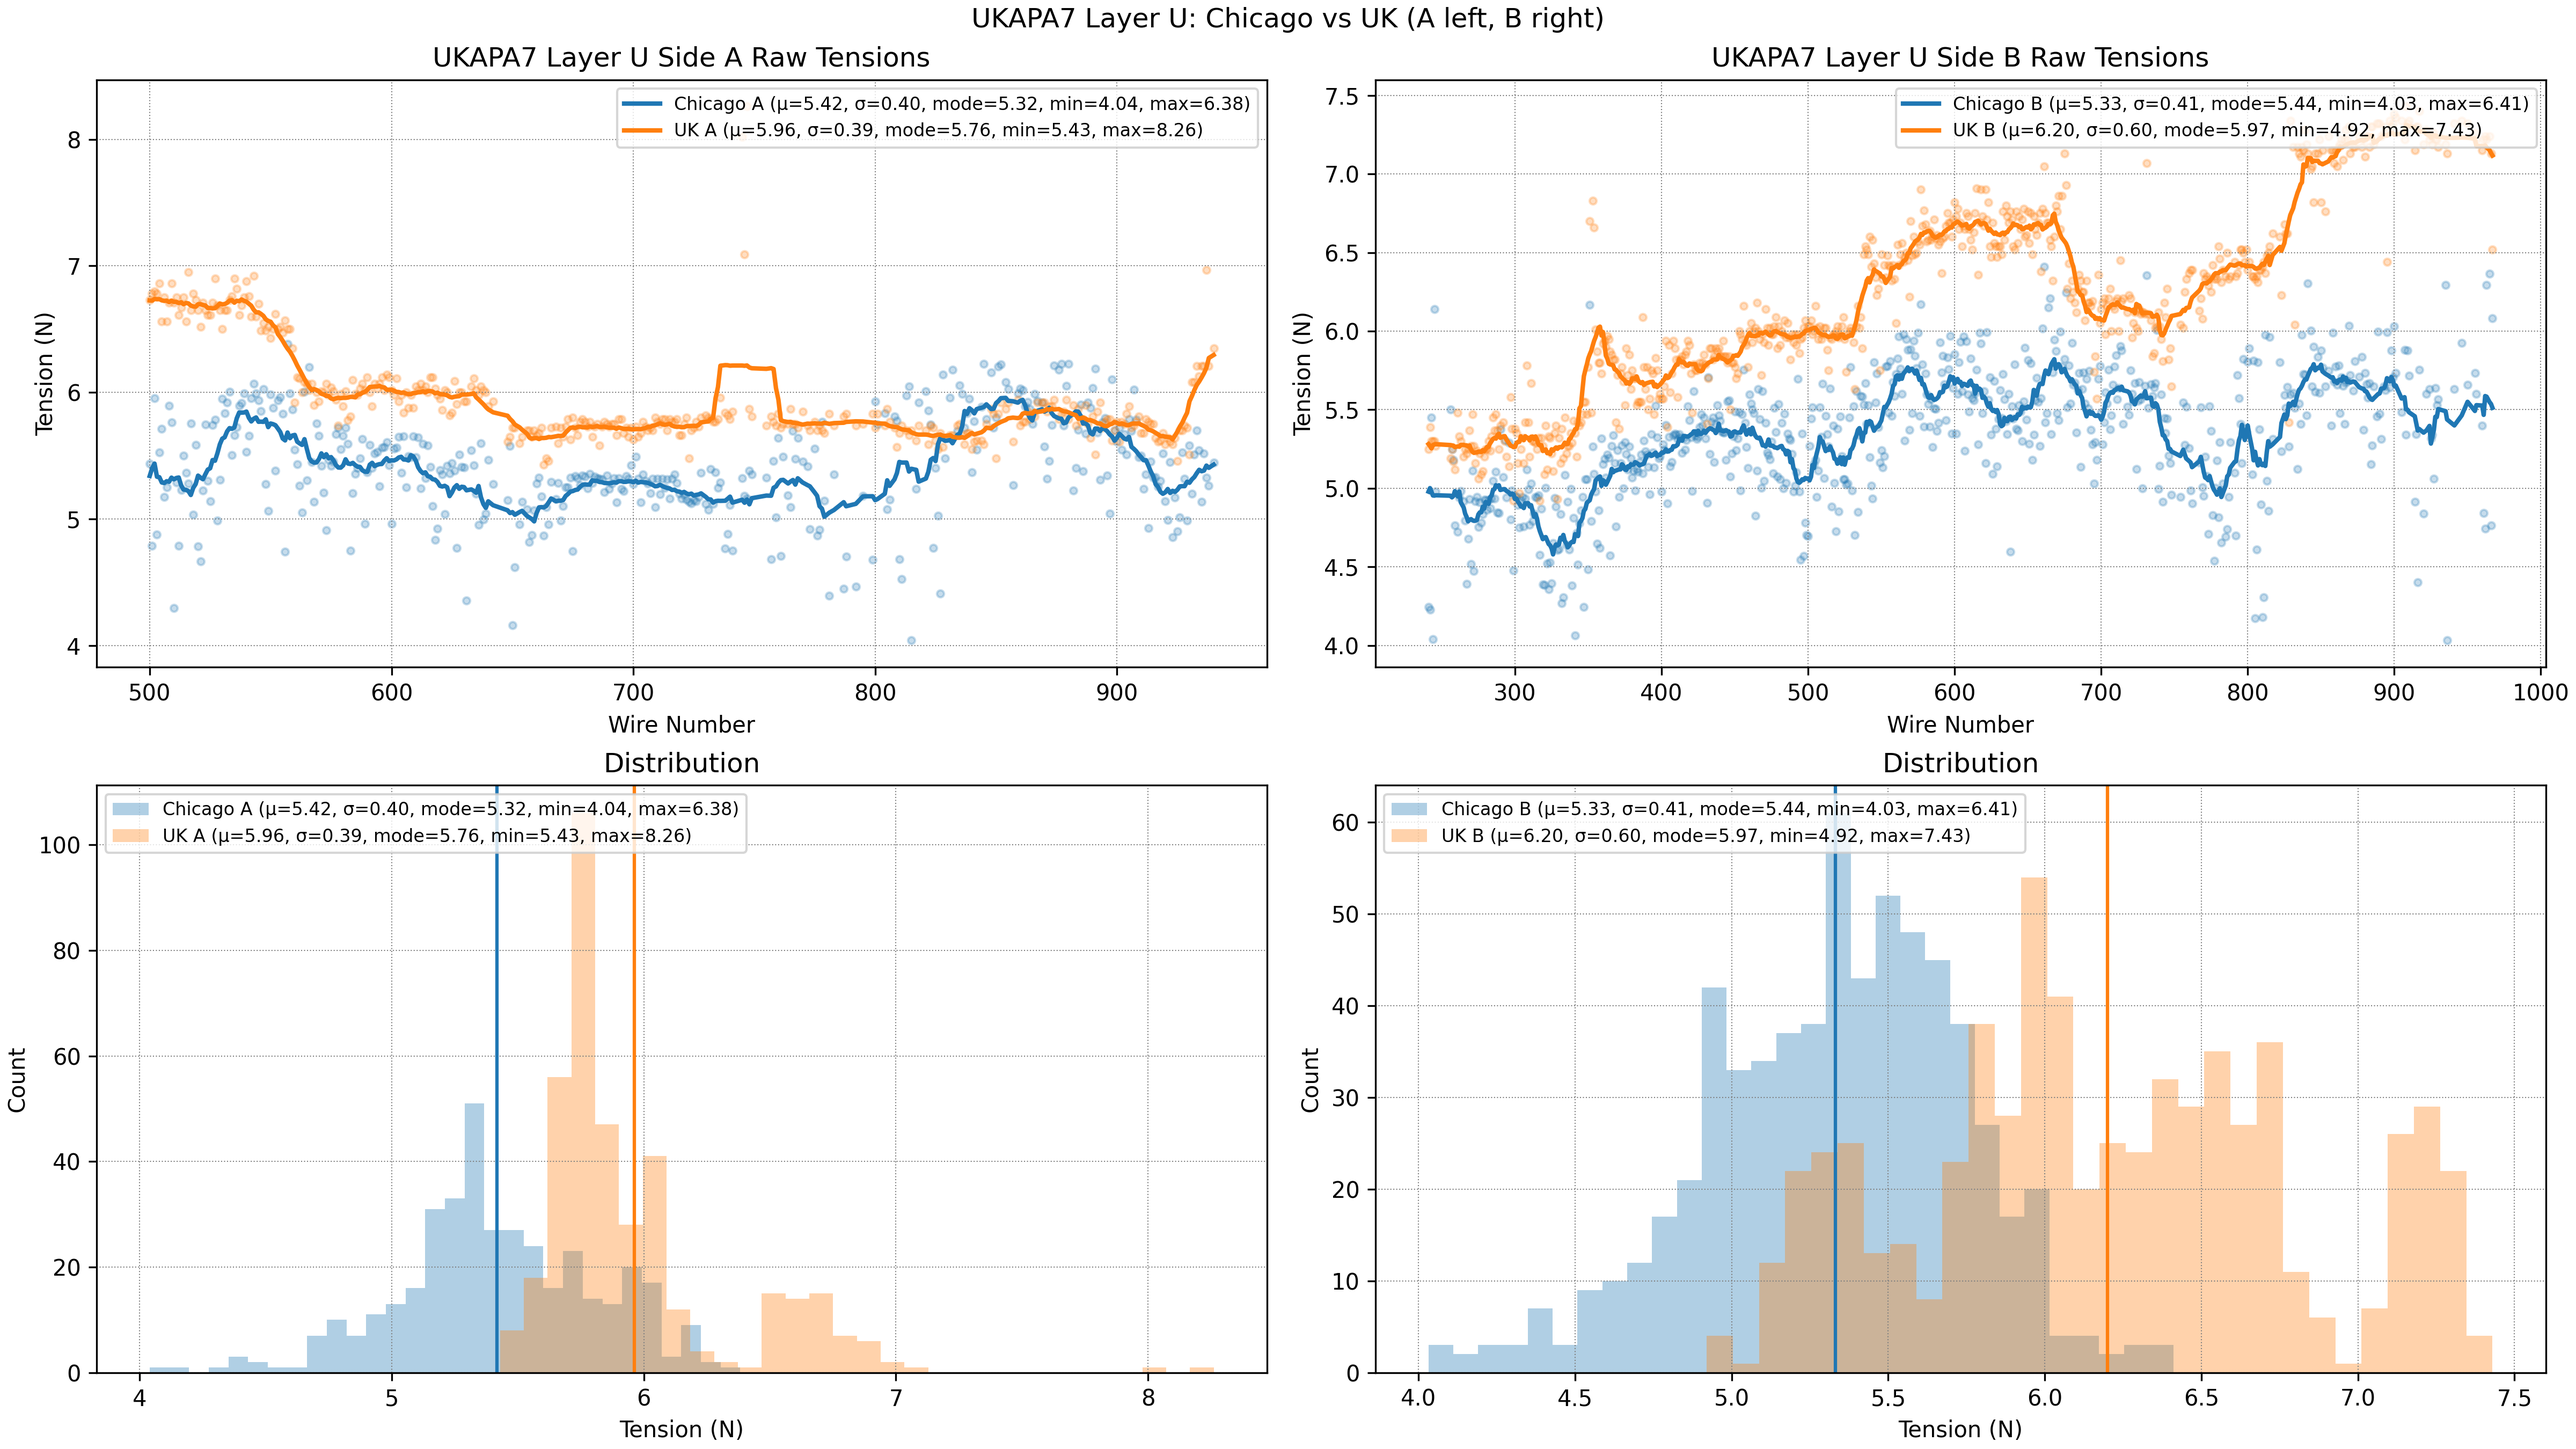
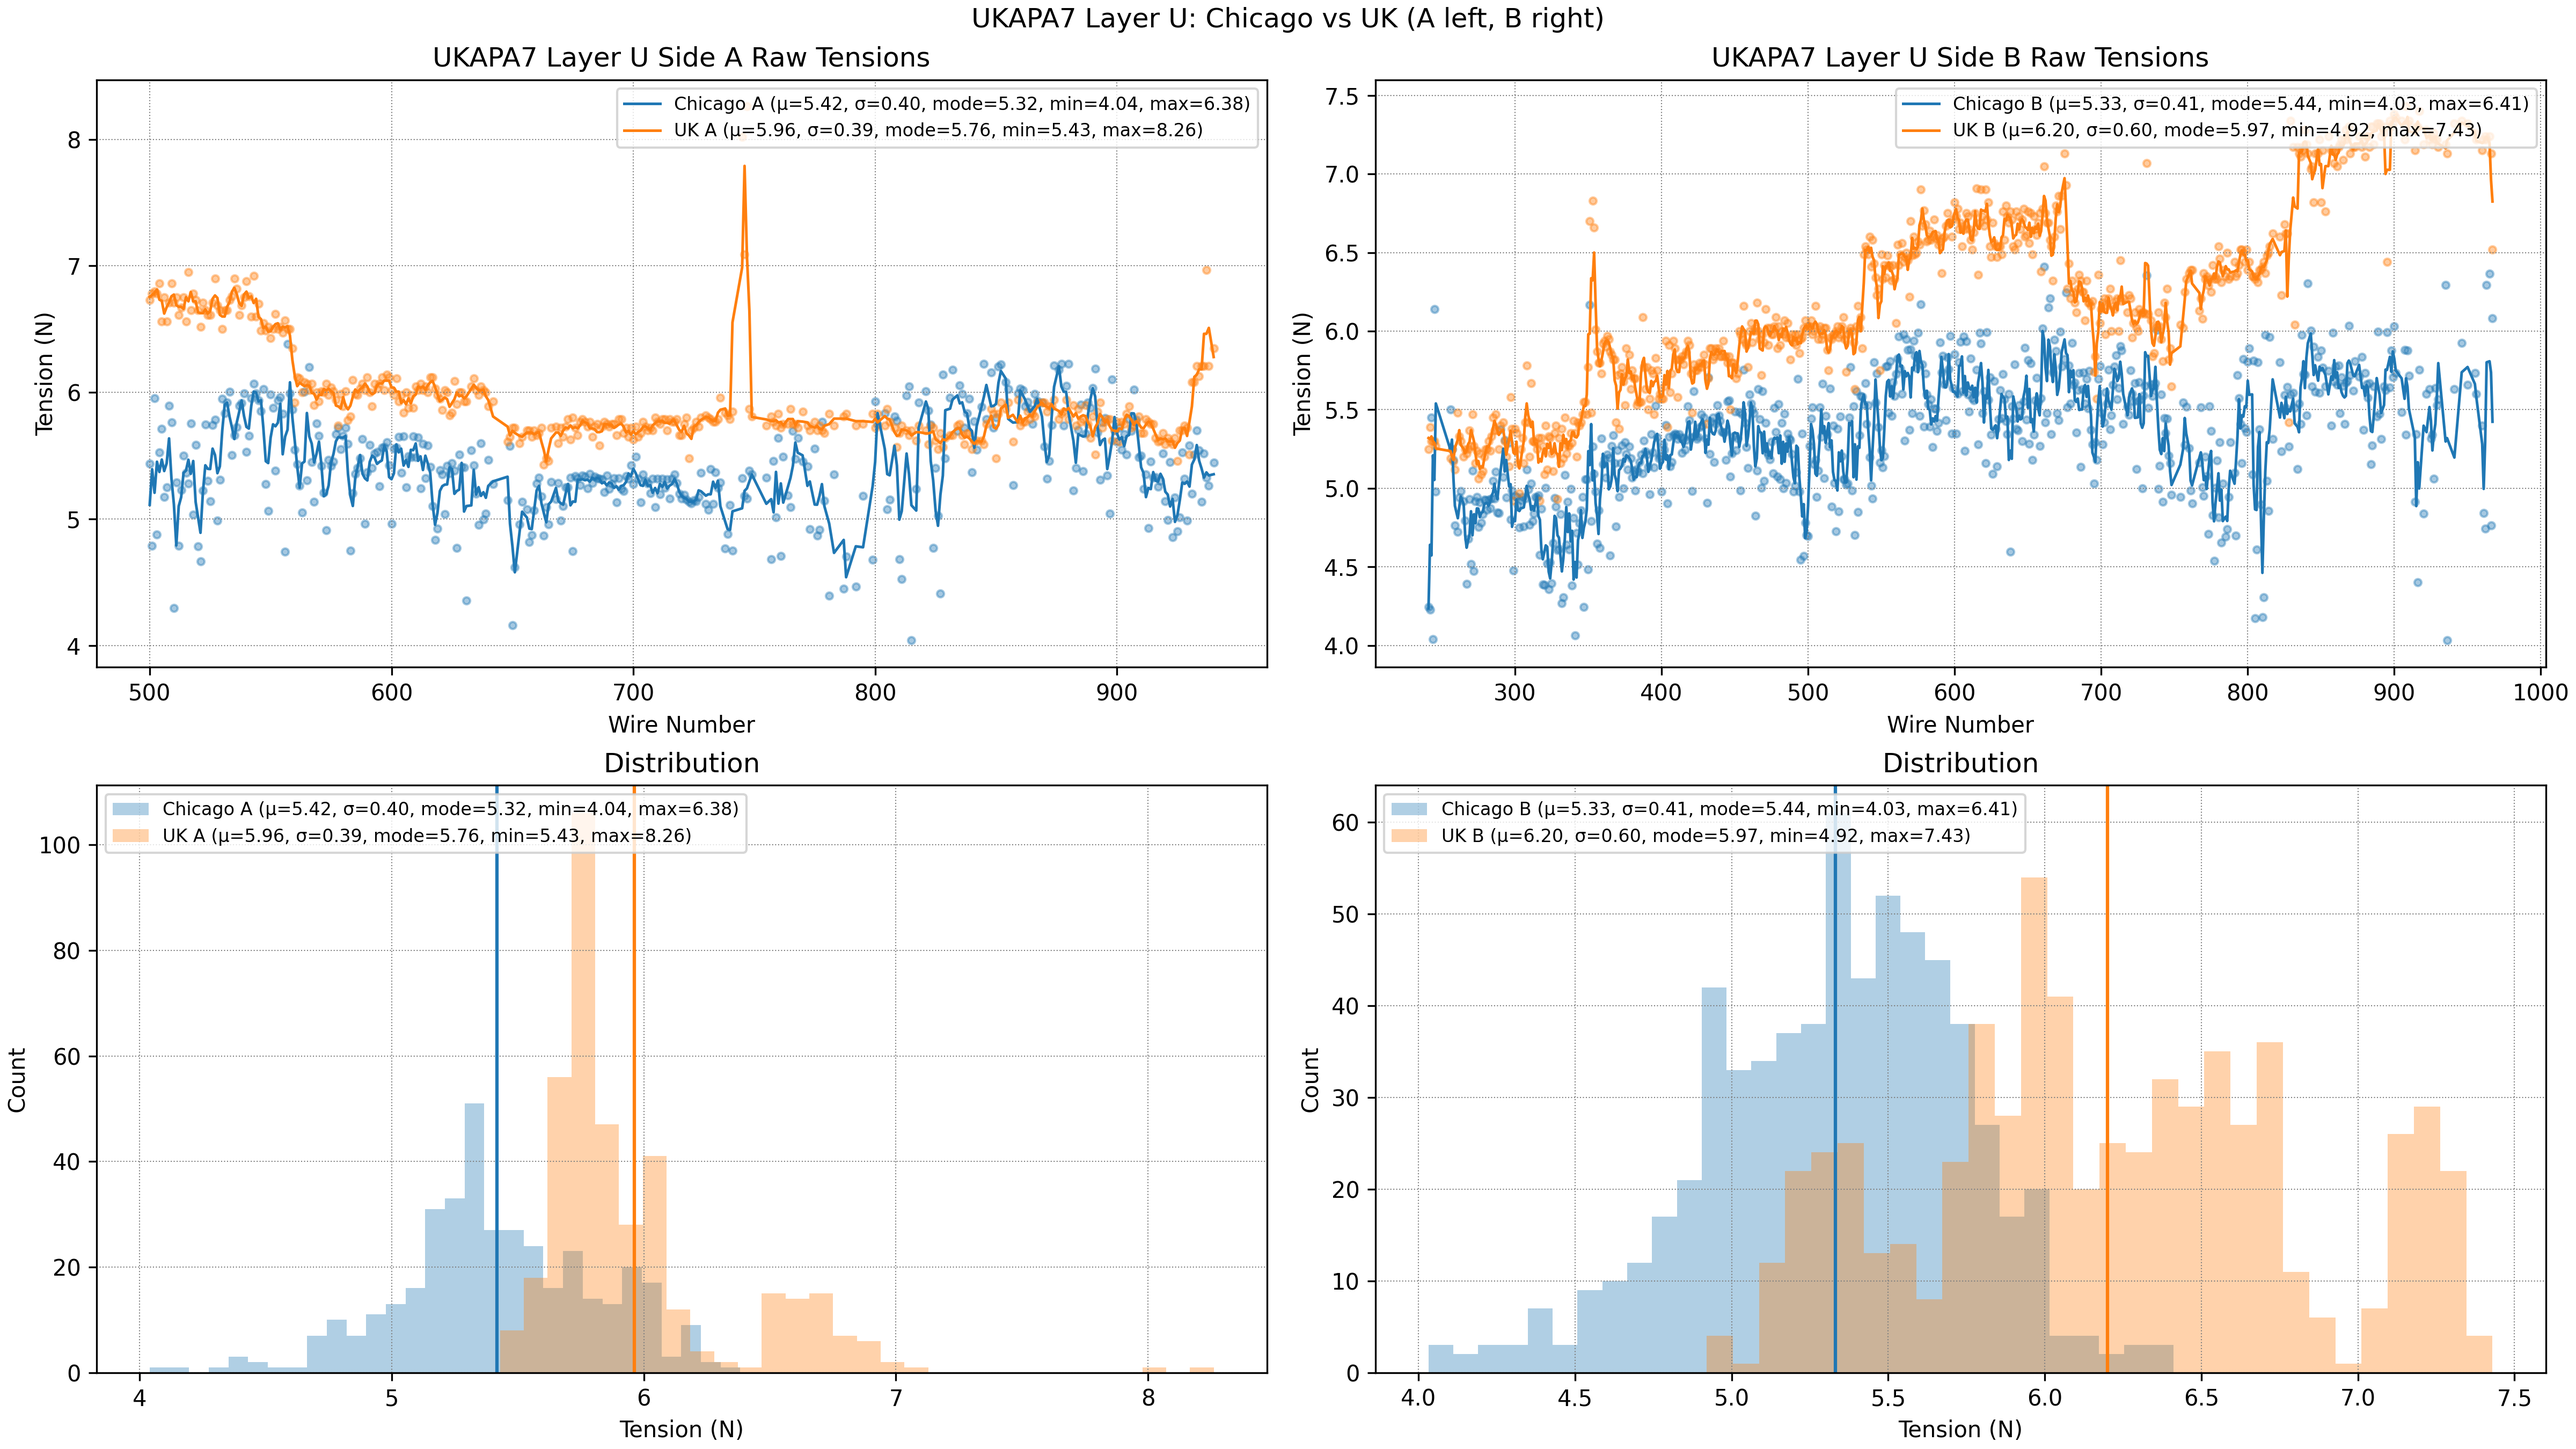
fix(tension): refresh UKAPA7 landscape plots

Changed region(s): [[0.5312, 0.0933, 0.9688, 0.4044], [0.0625, 0.1867, 0.4688, 0.4044]]

diff --git a/src/dune_tension/ukapa7_comparison/generate_landscape_display_plots.py b/src/dune_tension/ukapa7_comparison/generate_landscape_display_plots.py
@@ -71,10 +71,10 @@ def _plot_side_raw(
     ]
     for color, name, values in pairs:
         label = f"{name} ({_stats_text(values)})"
-        top_ax.scatter(wire_numbers, values, s=10, alpha=0.12, color=color)
+        top_ax.scatter(wire_numbers, values, s=10, alpha=0.4, color=color)
         top_ax.plot(
             wire_numbers,
-            _rolling_mean(values.reset_index(drop=True), window=5),
+            _rolling_mean(values.reset_index(drop=True), window=3),
             linewidth=1.2,
             color=color,
             label=label,
